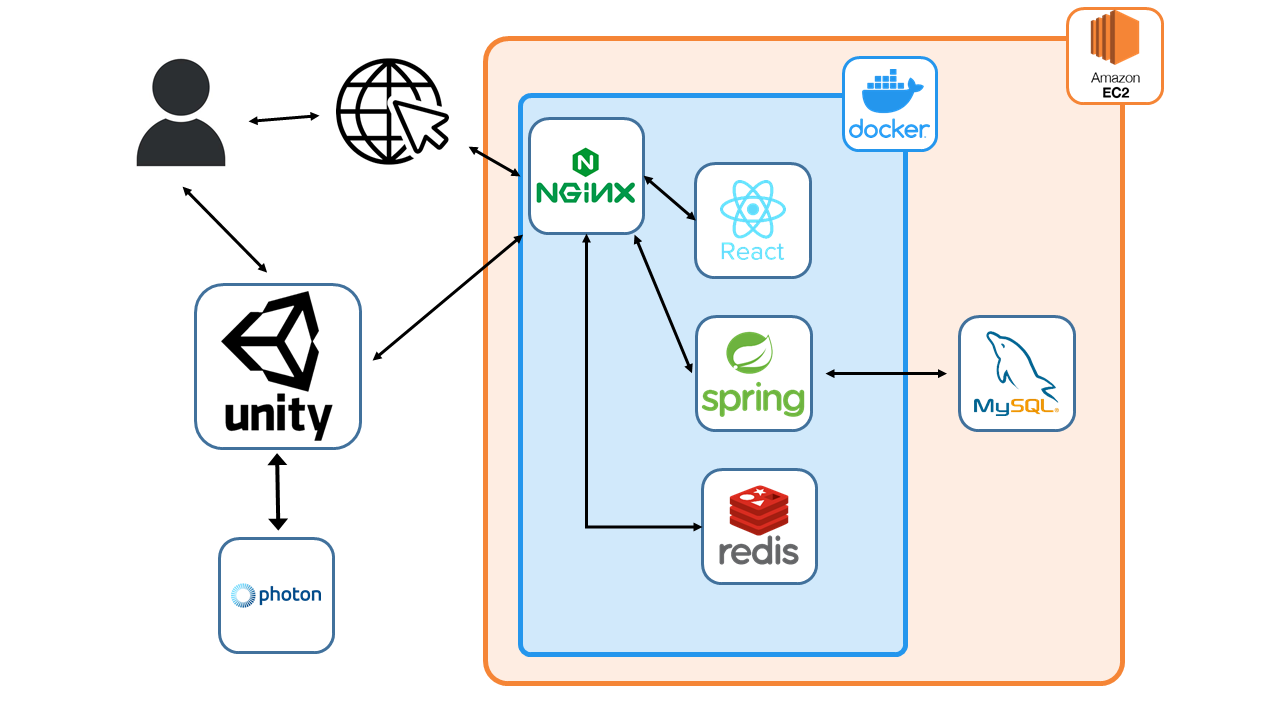
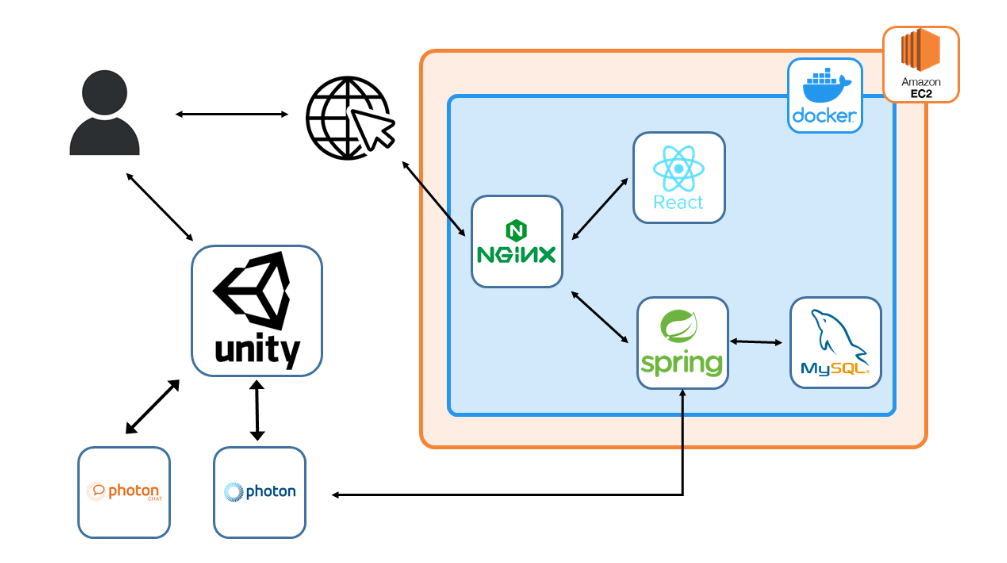
Fix : Readme 수정

diff --git a/README.md b/README.md
@@ -1,10 +1,20 @@
-# Royal Cat
+<img src="./docs/Logo.png" alt="StartScene" width="100px">
 
+# 로얄캣 (Royal Cat) 
 ## Ⅰ. 프로젝트 소개
+### 개요
+- 남녀노소 쉽게 즐길 수 있는 3D 배틀 로얄 슈팅 게임
 
-### **📌 게임 배경**
+<br>
 
-## 고양이 왕국의 왕이 되기 위한 6마리 고양이의 생선 튀기는 싸움이 시작된다!
+### 기간 및 인원
+- 2024.08 ~ 2024.10 (약 2개월)
+- 6인 (클라이언트 4인, 서버 2인)
+
+<br>
+
+### 게임 스토리
+### 고양이 왕국의 왕이 되기 위한 6마리 고양이의 생선 튀기는 싸움이 시작된다!
 
 ```bash
 지구로부터 멀리 떨어진 고양이 별의 고양이 왕국.
@@ -19,33 +29,54 @@
 과연 고양이 왕국의 다음 왕이 될 고양이는 누가 될 것인가!!! 빰빠빰
 ```
 
+<br>
+
 ## Ⅱ. 게임 소개
 
-### 01. 게임 시작
+#### [로얄캣 홈페이지 주소](http://j11b309.p.ssafy.io/) 
 
-#### 시작화면
+### 01. 게임 화면
 
-<img src="./docs/StartScene.PNG" alt="StartScene" width="600px">
+#### 시작 화면
+
+<img src="./docs/Title.gif" alt="Title" width="600px">
 <br/>
+- Start 버튼 클릭 시 로그인 화면으로 넘어감
+
+<br/>
+
+#### 로그인 화면
+<img src="./docs/Login.png" alt="Login" width="600px">
 - 로그인을 통해 게임 로비로 입장
 
-#### 로비
+<br/>
 
-<img src="./docs/Lobby.PNG" alt="lobby" width="600px">
+#### 로비 화면
+
+<img src="./docs/Lobby.PNG" alt="Lobby" width="600px">
 <br/>
 - 로비에서 대기방 생성 및 찾기 가능
 <br/>
 - 공개방과 비밀방으로 구분되며 비밀방은 비밀번호를 입력해야 입장 가능
 
-#### 대기방
+<br/>
 
-<img src="./docs/Room.PNG" alt="watingRoom" width="600px">
+#### 대기방 화면
+
+<img src="./docs/Room.PNG" alt="Room" width="600px">
 <br/>
 - 방 인원들은 Ready 버튼으로 게임 준비
 <br/>
 - 방장은 인원들이 모두 Ready 버튼 클릭 시 Start 버튼으로 게임 시작 가능
 <br/>
 - 플레이할 맵과 캐릭터 스킨을 고를 수 있음
+
+<br/>
+
+#### 인게임 화면
+<img src="./docs/InGame.PNG" alt="InGame" width="600px">
+<br/>
+<br/>
 
 ### 02. 플레이어 기본 조작 🏃♀
 
@@ -55,17 +86,23 @@
 <br/>
  WASD 또는 방향키를 통해 상하좌우로 이동 가능
 
+<br/>
+
 #### 구르기
 
 <img src="./docs/dodge.gif" alt="dodge" width="300px">
 <br/>
  SPACE BAR 키를 통해 빠른 속도로 구르기 가능
 
+<br/>
+
 #### 공격
 
 <img src="./docs/attack.gif" alt="attack" width="300px">
 <br/>
  마우스로 투사체를 조준 후 클릭하여 발사 가능, 상대방 피격 시 데미지 부여
+
+<br/>
 
 ### 03. 인게임 요소
 
@@ -75,16 +112,22 @@
 <br/>
 아이템 상자를 피격하여 투사체, 버프 아이템 획득
 
+<br/>
+
 #### 부쉬
 
 <img src="./docs/bush.gif" alt="bush" width="300px">
 <br/>
 부쉬 진입 시 타 플레이어에게 보이지 않는 은신 기능 제공
 
+<br/>
+
 #### 몬스터
 
 <br/>
 플레이어를 괴롭히며 처치 시 스킬샷과 같은 아이템 획득
+
+<br/>
 
 ### 04. 아이템
 
@@ -104,6 +147,8 @@
 
 - 플레이어가 획득 시 투사체 발사 방식을 변경하는 아이템
 - 멀티샷, 포물선 샷
+
+<br/>
 
 ## Ⅲ. 기술 스택
 
@@ -134,17 +179,21 @@
 - Figma
 - MatterMost
 
+<br>
+
 ## Ⅳ. 산출물
 
 ### 📃 ERD
 
-### ⚙ 아키텍쳐(임시)
+### ⚙ 아키텍쳐
 
-<img src="./docs/Architecture.png" alt="Architecture" width="300px">
+<img src="./docs/Architecture.png" alt="Architecture" width="600px">
+
+<br>
 
 ## V. 팀원 소개 및 회고
 
-<img src="./docs/LoyalCat_Team.PNG" alt="LoyalCat_Team" width="300px">
+<img src="./docs/Team.PNG" alt="LoyalCat_Team" width="600px">
 
 ### 진현지
 
